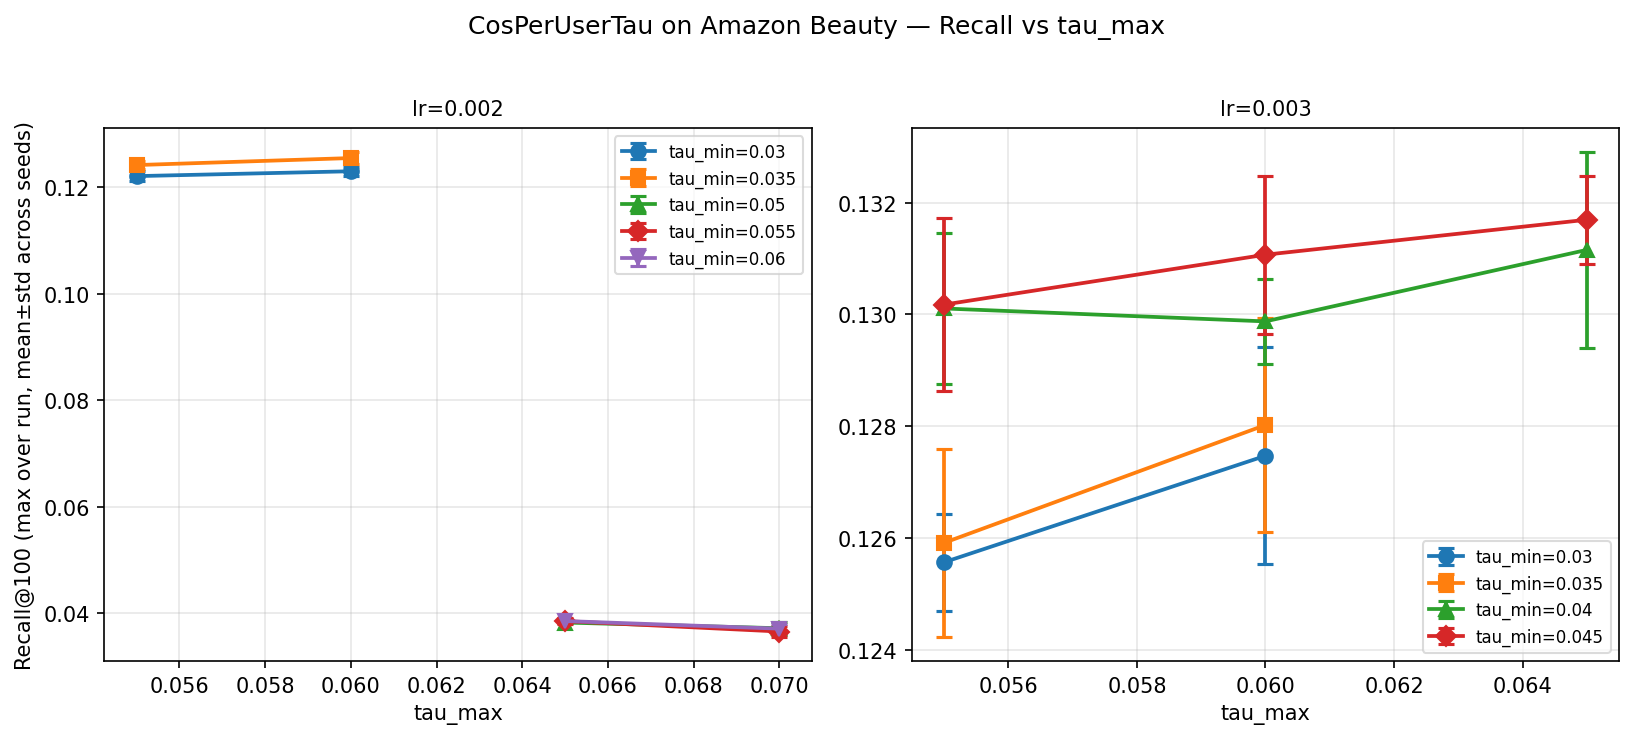
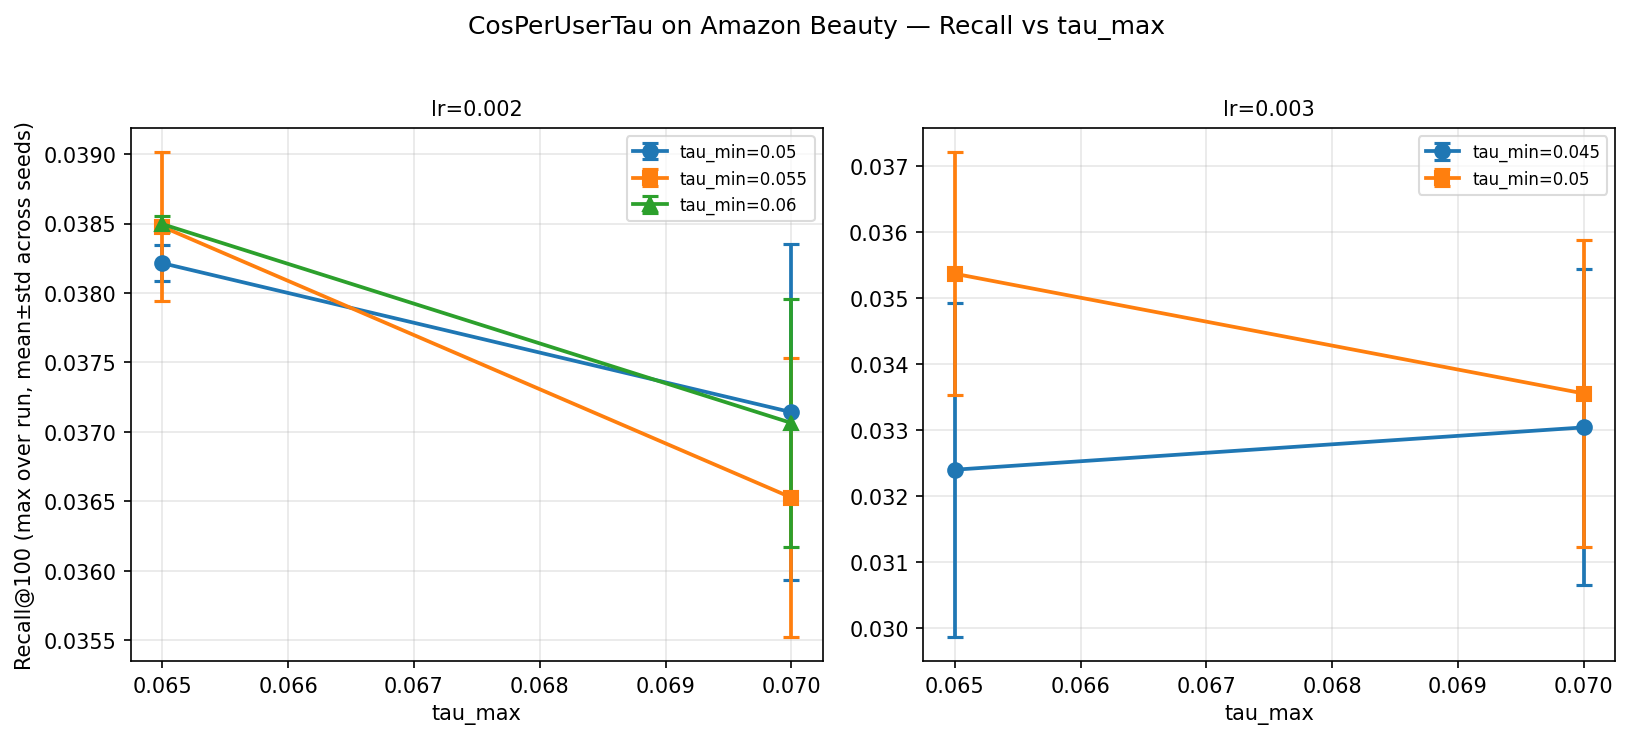
part 3 cos_per_user and macl on amazon

diff --git a/scripts/plot_cos_per_user_tau_amazon.py b/scripts/plot_cos_per_user_tau_amazon.py
@@ -17,7 +17,7 @@ import matplotlib.pyplot as plt
 import numpy as np
 
 MLFLOW_DB = Path("mlruns/mlflow.db")
-EXPERIMENT = "cos_per_user_tau_30e"
+EXPERIMENT = "cos_per_user_tau"
 METRIC = "valid/recall"
 
 MARKERS = ["o", "s", "^", "D", "v", "P", "X"]
@@ -43,6 +43,8 @@ def load_runs(db, experiment):
         params = dict(
             c.execute("SELECT key, value FROM params WHERE run_uuid=?", (ru,)).fetchall()
         )
+        if "AmazonBeautyDataset" not in params.get("data_dataset", ""):
+            continue
         targs = ast.literal_eval(params.get("tau_json_args", "{}"))
         vals = [
             v

diff --git a/scripts/plot_macloss_tau_amazon.py b/scripts/plot_macloss_tau_amazon.py
@@ -17,7 +17,7 @@ import matplotlib.pyplot as plt
 import numpy as np
 
 MLFLOW_DB = Path("mlruns/mlflow.db")
-EXPERIMENT = "macloss_tau_30e"
+EXPERIMENT = "macloss_tau"
 METRIC = "valid/recall"
 
 
@@ -43,6 +43,8 @@ def load_runs(db: Path, experiment: str):
         params = dict(
             c.execute("SELECT key, value FROM params WHERE run_uuid=?", (ru,)).fetchall()
         )
+        if "AmazonBeautyDataset" not in params.get("data_dataset", ""):
+            continue
         targs = ast.literal_eval(params.get("tau_json_args", "{}"))
         values = [
             v
